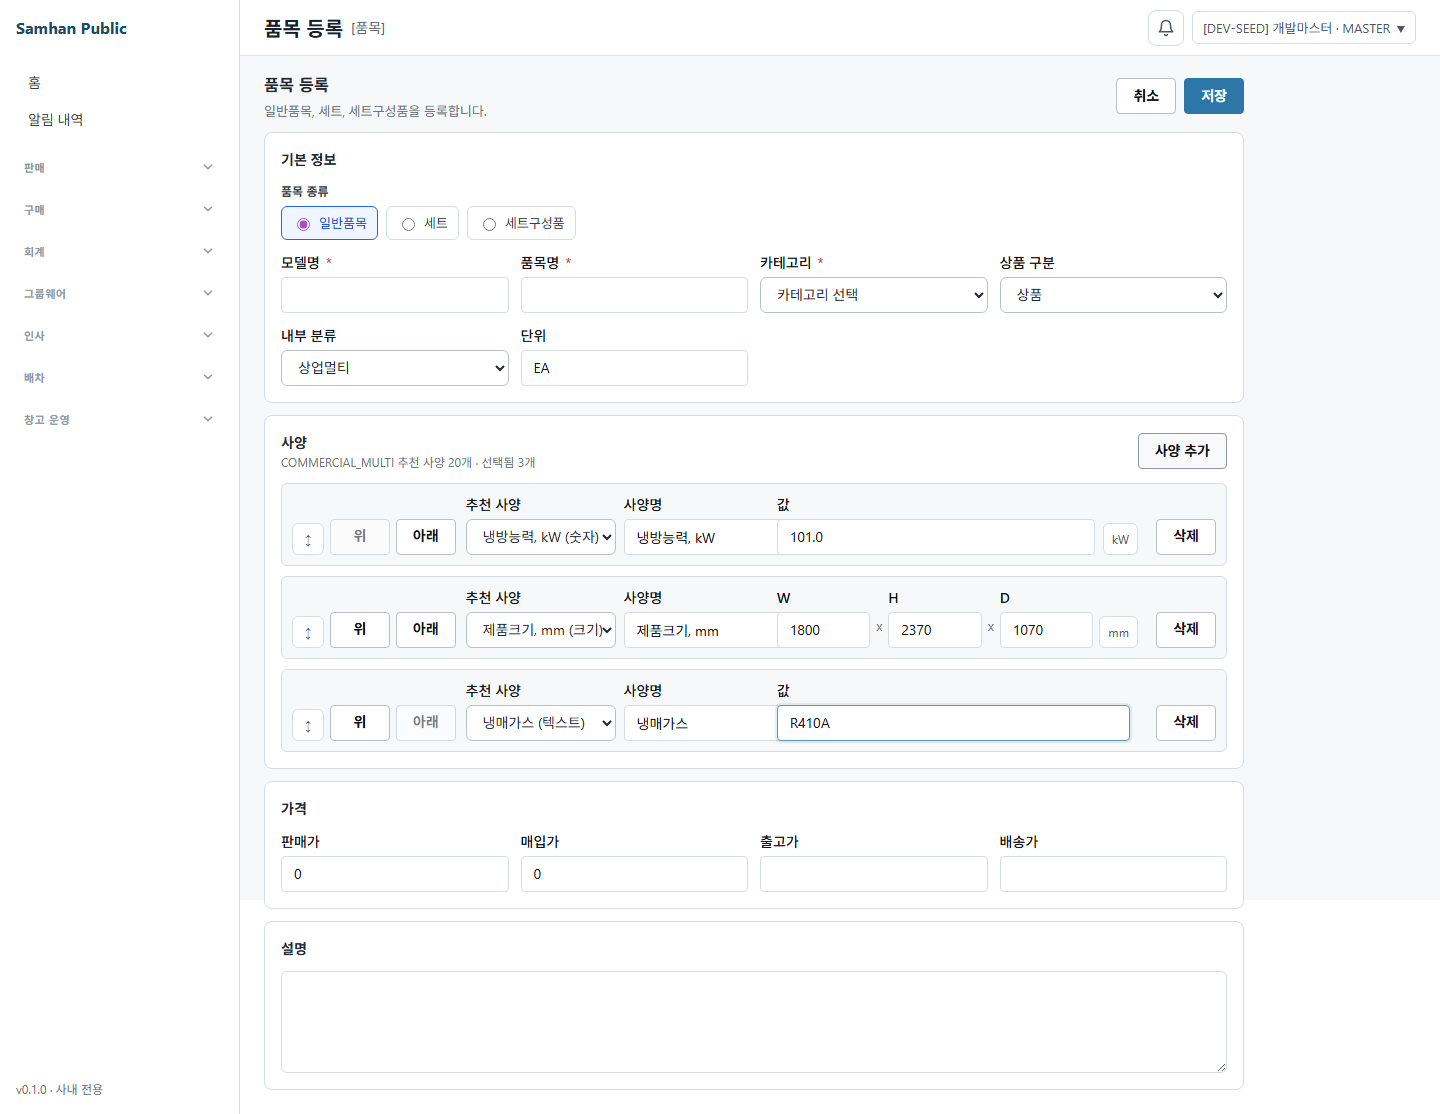
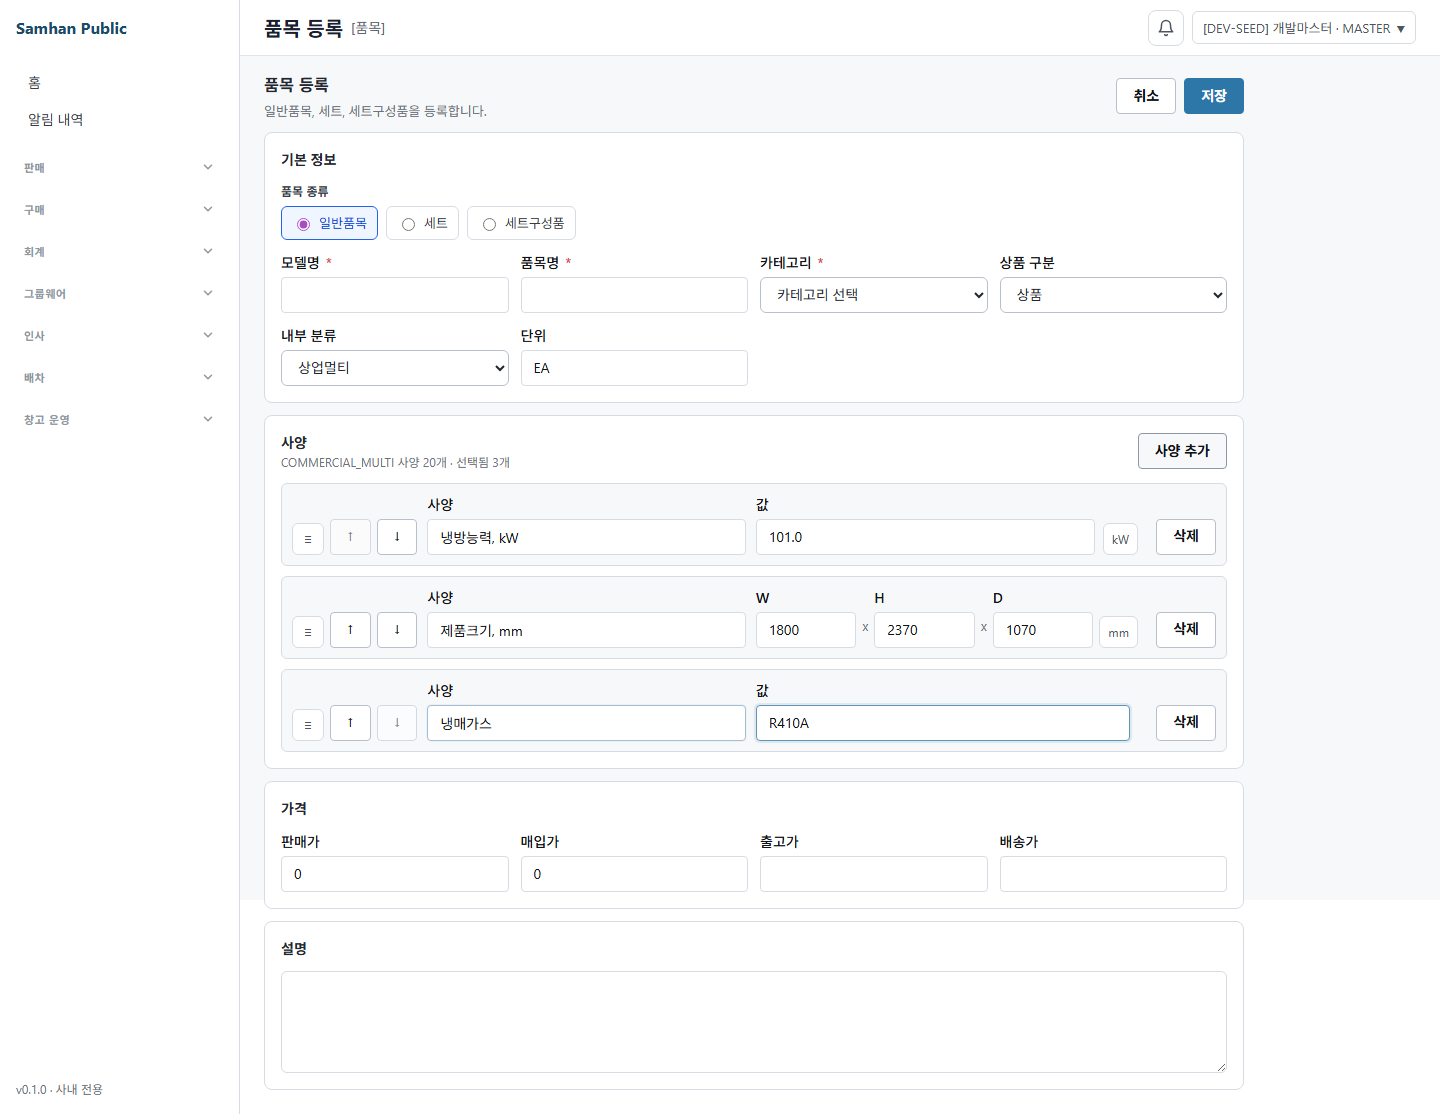
fix(product): 사양 입력 통합 필드(=사양) + reorder 아이콘(≡/↑/↓) + edit 시드 QA (#1 개발책임자 정정)
개발책임자 정정 반영:
- 추천사양 Select + 사양명 Input → 단일 '사양' 필드(datalist, 자유입력+제안).
  입력 specKey 가 템플릿 일치 시 unit/valueType 자동 적용, 불일치=TEXT.
- 라벨 '사양명'→'사양'. reorder: 위/아래 버튼→↑/↓ 화살표, 드래그 핸들 ↕→≡(aria-label).
- 행별 datalist(spec-key-options-N)로 중복제외 유지.

실QA(라이브 :5173+:8080): 통합필드 valueType 동적전환·dedup·순서 + 시드제품
AM100AXVHJH1 편집 기존 13사양 그대로 로드(03-edit-seeded-specs). typecheck 0.

diff --git a/clients/desktop/src/renderer/routes/ProductFormPage.tsx b/clients/desktop/src/renderer/routes/ProductFormPage.tsx
@@ -321,7 +321,7 @@ export function ProductFormPage() {
     })
   }
 
-  const selectSpecTemplate = (index: number, specKey: string) => {
+  const changeSpecKey = (index: number, specKey: string) => {
     const template = specTemplateByKey.get(specKey)
     if (!template) {
       updateSpecRow(index, {
@@ -337,14 +337,6 @@ export function ProductFormPage() {
       specValue: '',
       unit: template.defaultUnit ?? '',
       valueType: template.valueType,
-    })
-  }
-
-  const changeSpecKeyFreely = (index: number, specKey: string) => {
-    updateSpecRow(index, {
-      specKey,
-      unit: '',
-      valueType: 'TEXT',
     })
   }
 
@@ -554,7 +546,7 @@ export function ProductFormPage() {
           <div>
             <h4 style={sectionTitleStyle}>사양</h4>
             <p style={hintStyle}>
-              {estimateCategory ? `${estimateCategory} 추천 사양 ${specTemplates.length}개` : '전체 추천 사양'}
+              {estimateCategory ? `${estimateCategory} 사양 ${specTemplates.length}개` : '전체 사양'}
               {selectedTemplateCount > 0 ? ` · 선택됨 ${selectedTemplateCount}개` : ''}
             </p>
           </div>
@@ -571,6 +563,7 @@ export function ProductFormPage() {
           <div style={specRowsStyle}>
             {values.specs.map((spec, index) => {
               const dimensionParts = splitDimensionSpecValue(spec.specValue)
+              const specKeyOptionsId = `spec-key-options-${index}`
               return (
                 <div
                   key={index}
@@ -594,46 +587,45 @@ export function ProductFormPage() {
                       aria-label={`${index + 1}번째 사양 드래그`}
                       data-testid={`product-form-spec-${index}-drag-handle`}
                     >
-                      ↕
+                      ≡
                     </button>
                     <Button
                       variant="secondary"
                       onClick={() => reorderSpecRows(index, index - 1)}
                       disabled={isSaving || index === 0}
+                      aria-label="위로 이동"
                       data-testid={`product-form-spec-${index}-move-up`}
                     >
-                      위
+                      ↑
                     </Button>
                     <Button
                       variant="secondary"
                       onClick={() => reorderSpecRows(index, index + 1)}
                       disabled={isSaving || index === values.specs.length - 1}
+                      aria-label="아래로 이동"
                       data-testid={`product-form-spec-${index}-move-down`}
                     >
-                      아래
+                      ↓
                     </Button>
                   </div>
                   <div style={specNameCellStyle}>
-                    <Select
-                      label="추천 사양"
-                      value={specTemplateByKey.has(spec.specKey) ? spec.specKey : ''}
-                      onChange={(event) => selectSpecTemplate(index, event.target.value)}
-                      data-testid={`product-form-spec-${index}-template`}
-                    >
-                      <option value="">직접 입력</option>
-                      {availableTemplatesForRow(index).map((template) => (
-                        <option key={template.id} value={template.specKey}>
-                          {template.specKey} ({VALUE_TYPE_LABELS[template.valueType]})
-                        </option>
-                      ))}
-                    </Select>
                     <Input
-                      label="사양명"
+                      label="사양"
                       value={spec.specKey}
-                      onChange={(event) => changeSpecKeyFreely(index, event.target.value)}
+                      onChange={(event) => changeSpecKey(index, event.target.value)}
                       placeholder="예: 냉방능력, kW"
+                      list={specKeyOptionsId}
                       data-testid={`product-form-spec-${index}-key`}
                     />
+                    <datalist id={specKeyOptionsId}>
+                      {availableTemplatesForRow(index).map((template) => (
+                        <option
+                          key={template.id}
+                          value={template.specKey}
+                          label={VALUE_TYPE_LABELS[template.valueType]}
+                        />
+                      ))}
+                    </datalist>
                   </div>
                   <div style={specValueCellStyle}>
                     {spec.valueType === 'NUMBER' ? (
@@ -864,7 +856,6 @@ const specDragHandleStyle: CSSProperties = {
 
 const specNameCellStyle: CSSProperties = {
   display: 'grid',
-  gridTemplateColumns: 'minmax(150px, 0.9fr) minmax(160px, 1fr)',
   gap: 8,
 }
 

diff --git a/clients/desktop/playwright/spec-aware-input-real-qa/spec-aware-input-real-qa.spec.ts b/clients/desktop/playwright/spec-aware-input-real-qa/spec-aware-input-real-qa.spec.ts
@@ -49,31 +49,35 @@ test('사양 인지형 입력 — 품목별 드롭다운·valueType·순서·중
   await page.selectOption('[data-testid="product-form-product-category"]', 'COMMERCIAL_MULTI')
   await page.waitForTimeout(1500) // 템플릿 로드
 
-  // 행0: NUMBER (냉방능력, kW) → 숫자 입력 + 단위 suffix
+  // 행0: NUMBER (냉방능력, kW) — 통합 "사양" 필드에 입력 → 값 필드 동적 전환(숫자+단위 suffix)
   await page.click('[data-testid="product-form-add-spec"]')
-  await page.waitForSelector('[data-testid="product-form-spec-0-template"]', { timeout: 10000 })
-  await page.selectOption('[data-testid="product-form-spec-0-template"]', '냉방능력, kW')
+  await page.waitForSelector('[data-testid="product-form-spec-0-key"]', { timeout: 10000 })
+  await page.fill('[data-testid="product-form-spec-0-key"]', '냉방능력, kW')
+  await page.waitForTimeout(300) // valueType 적용 re-render
   await page.fill('[data-testid="product-form-spec-0-value"]', '101.0')
   const row0Unit = await page.locator('[data-testid="product-form-spec-0-row"]').innerText()
   expect(row0Unit).toContain('kW')
 
-  // 행1: DIMENSION (제품크기, mm) → 3분할 WxHxD
+  // 행1: DIMENSION (제품크기, mm) → 값 필드가 3분할 WxHxD 로 동적 전환
   await page.click('[data-testid="product-form-add-spec"]')
-  await page.selectOption('[data-testid="product-form-spec-1-template"]', '제품크기, mm')
+  await page.fill('[data-testid="product-form-spec-1-key"]', '제품크기, mm')
+  await page.waitForSelector('[data-testid="product-form-spec-1-dimension-width"]', { timeout: 5000 })
   await page.fill('[data-testid="product-form-spec-1-dimension-width"]', '1800')
   await page.fill('[data-testid="product-form-spec-1-dimension-height"]', '2370')
   await page.fill('[data-testid="product-form-spec-1-dimension-depth"]', '1070')
 
-  // 행2: TEXT (냉매가스)
+  // 행2: TEXT (냉매가스) → 자유 텍스트
   await page.click('[data-testid="product-form-add-spec"]')
-  await page.selectOption('[data-testid="product-form-spec-2-template"]', '냉매가스')
+  await page.fill('[data-testid="product-form-spec-2-key"]', '냉매가스')
+  await page.waitForTimeout(300)
   await page.fill('[data-testid="product-form-spec-2-value"]', 'R410A')
 
   await page.screenshot({ path: path.join(OUT, '01-valuetypes.png'), fullPage: true })
 
-  // 중복 제외 검증: 행3 드롭다운에 이미 추가된 사양 미포함
+  // 중복 제외 검증: 행3 datalist 후보에 이미 추가된 사양 미포함
   await page.click('[data-testid="product-form-add-spec"]')
-  const row3Options = await page.$$eval('[data-testid="product-form-spec-3-template"] option', (els) =>
+  await page.waitForSelector('#spec-key-options-3', { state: 'attached', timeout: 5000 })
+  const row3Options = await page.$$eval('#spec-key-options-3 option', (els) =>
     els.map((e) => (e as HTMLOptionElement).value).filter(Boolean))
   const added = ['냉방능력, kW', '제품크기, mm', '냉매가스']
   const leaked = added.filter((a) => row3Options.includes(a))
@@ -92,4 +96,23 @@ test('사양 인지형 입력 — 품목별 드롭다운·valueType·순서·중
     + `중복제외: 행3 후보에서 추가된 ${added.length}개 제외 누수=${leaked.length}\n`
     + `행3 잔여 후보 수=${row3Options.length}\n`
     + `순서변경: 행0 아래로 이동(드래그+위/아래 버튼 제공)\n`, 'utf8')
+})
+
+test('시드 제품 편집 — 기존 적재 사양 그대로 조회', async ({ page }) => {
+  await loginAndInstallStub(page, 'dev_master', 'dev_p05_pass!')
+  // 시드 적재 사양 13개 보유 상업 제품
+  await page.goto(`${BASE_URL}/#/products/AM100AXVHJH1/edit`)
+  await page.waitForSelector('[data-testid="product-form-spec-0-key"]', { timeout: 30000 })
+  await page.waitForTimeout(800)
+
+  const loaded = await page.$$eval(
+    '[data-testid$="-key"][data-testid^="product-form-spec-"]',
+    (els) => els.map((e) => (e as HTMLInputElement).value).filter(Boolean),
+  )
+  expect(loaded.length).toBeGreaterThanOrEqual(5) // 기존 시드 사양 로드됨
+  await page.screenshot({ path: path.join(OUT, '03-edit-seeded-specs.png'), fullPage: true })
+
+  fs.writeFileSync(path.join(OUT, 'edit-seeded-evidence.txt'),
+    `시드 제품 AM100AXVHJH1 편집 — 기존 적재 사양 ${loaded.length}개 로드됨(그대로 조회 가능)\n`
+    + `--- 로드된 사양명(구 표기 — TEXT 자유편집) ---\n${loaded.join('\n')}\n`, 'utf8')
 })
